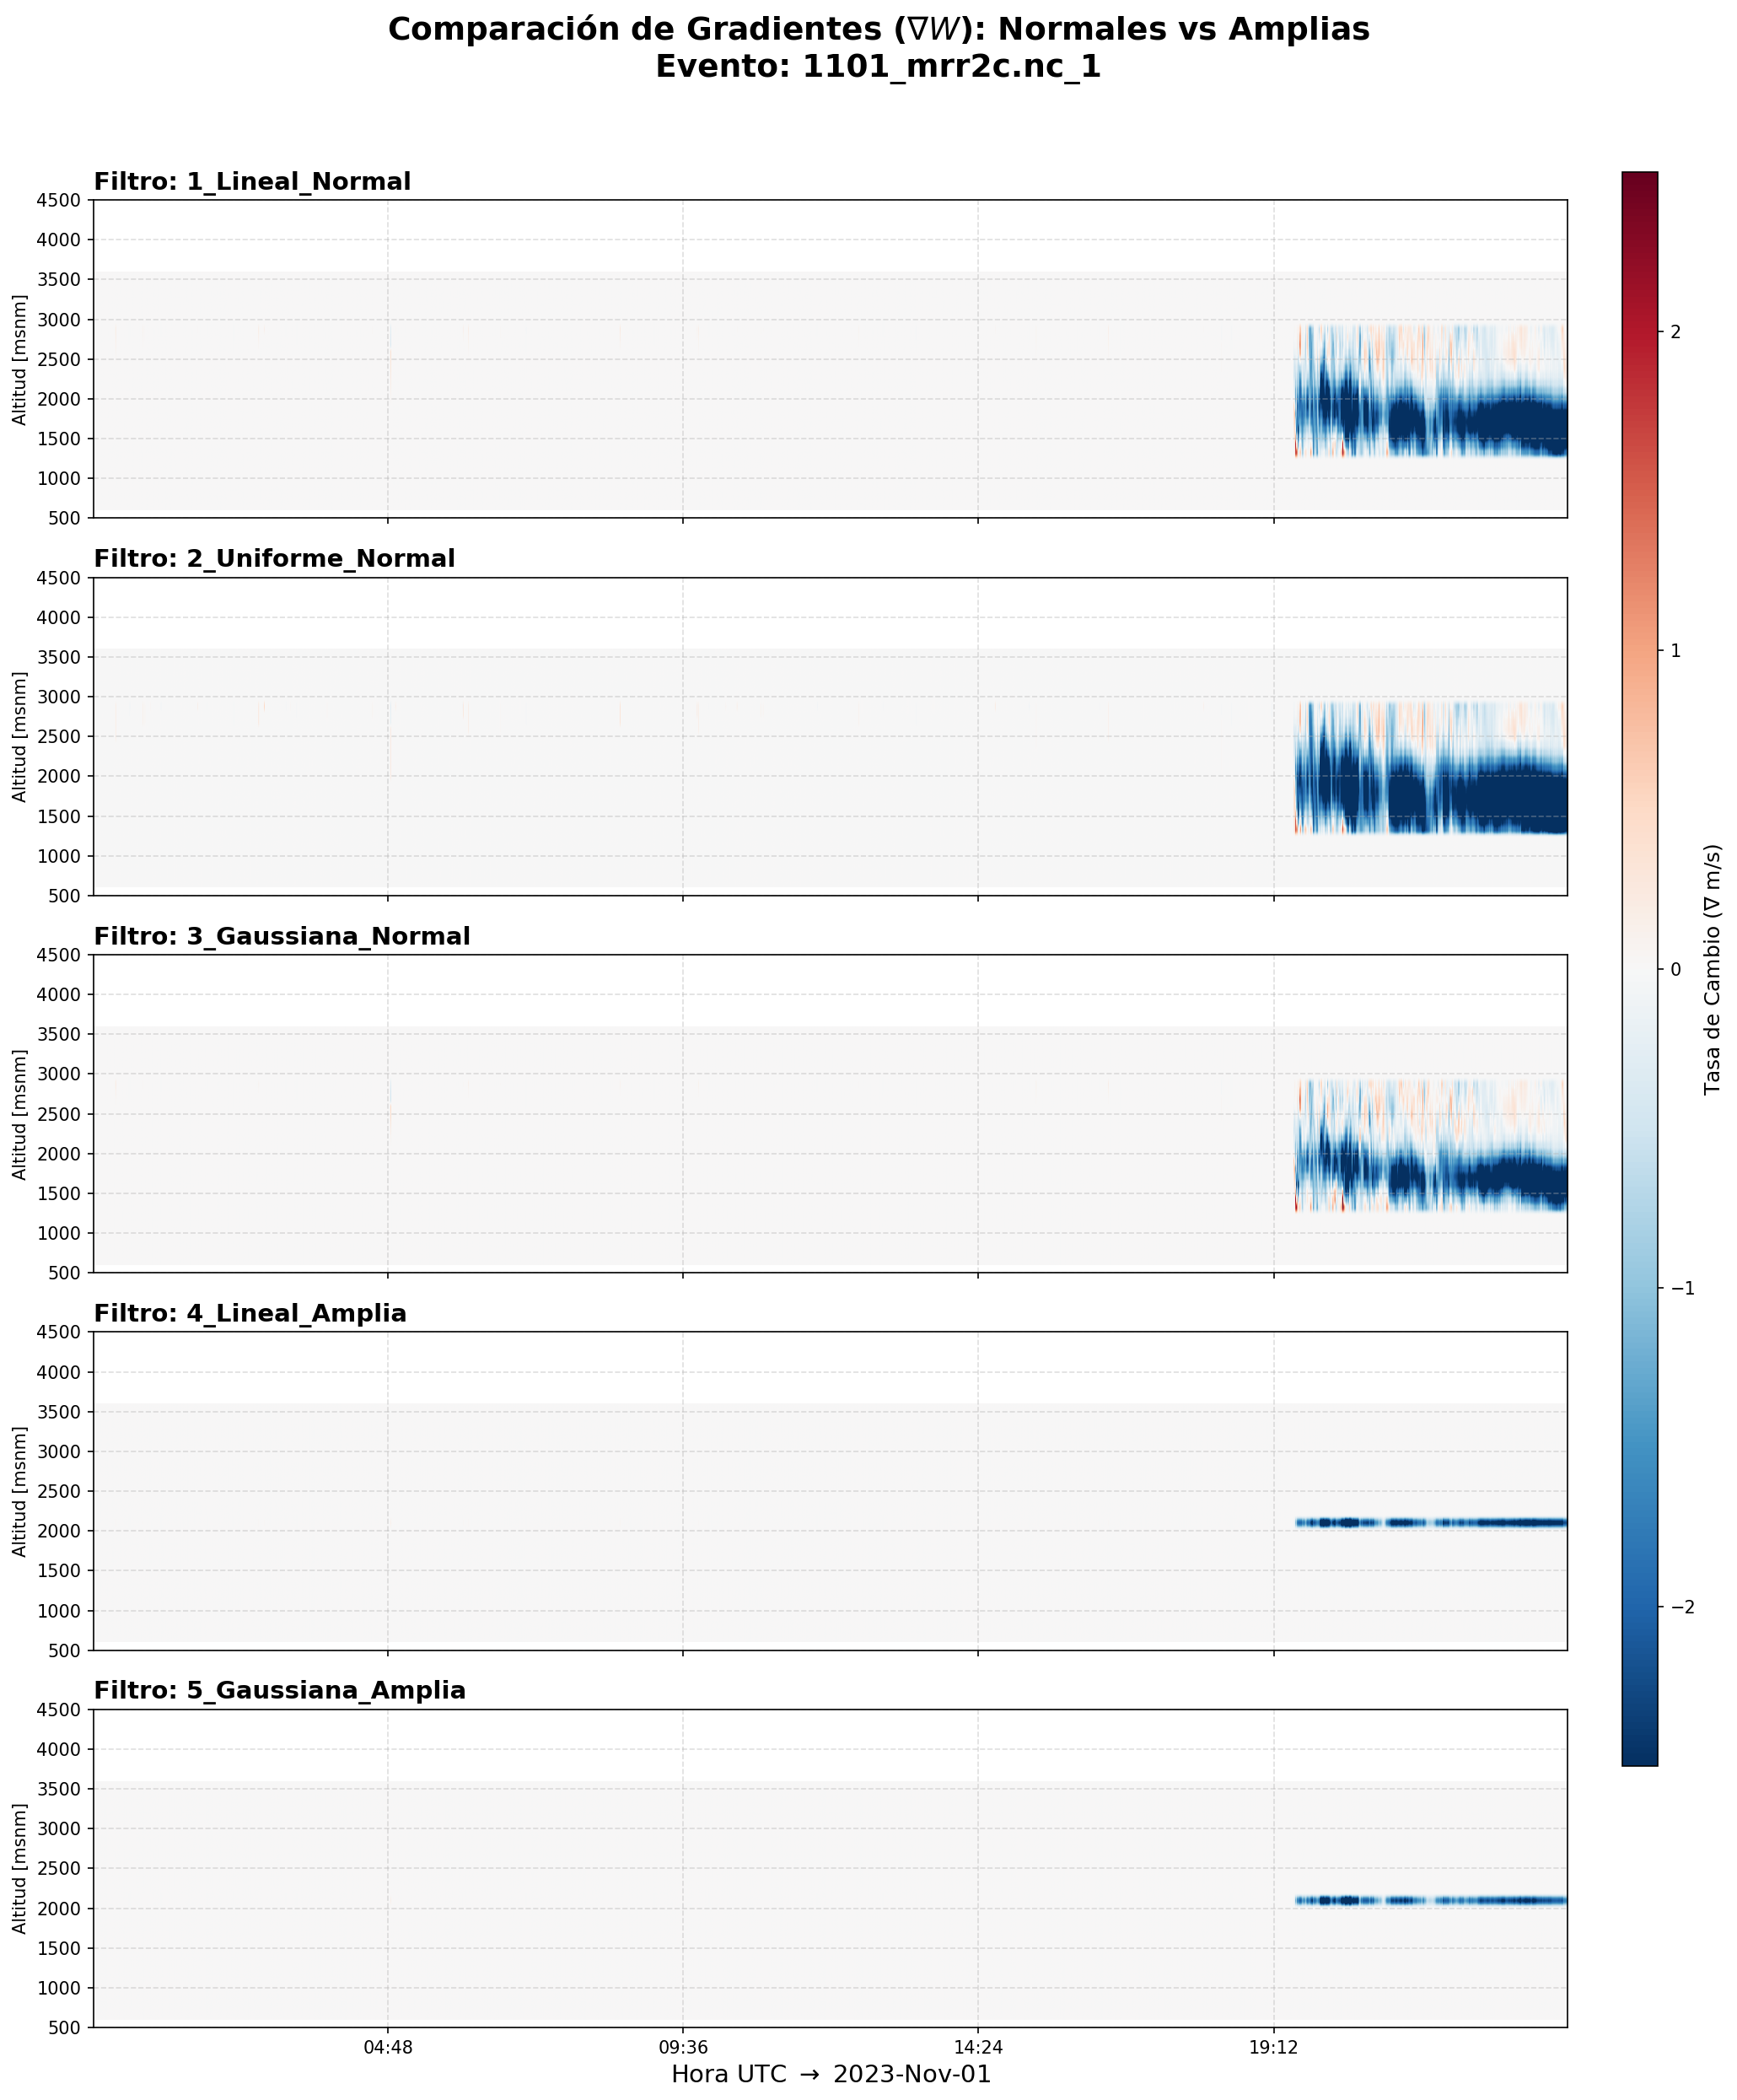
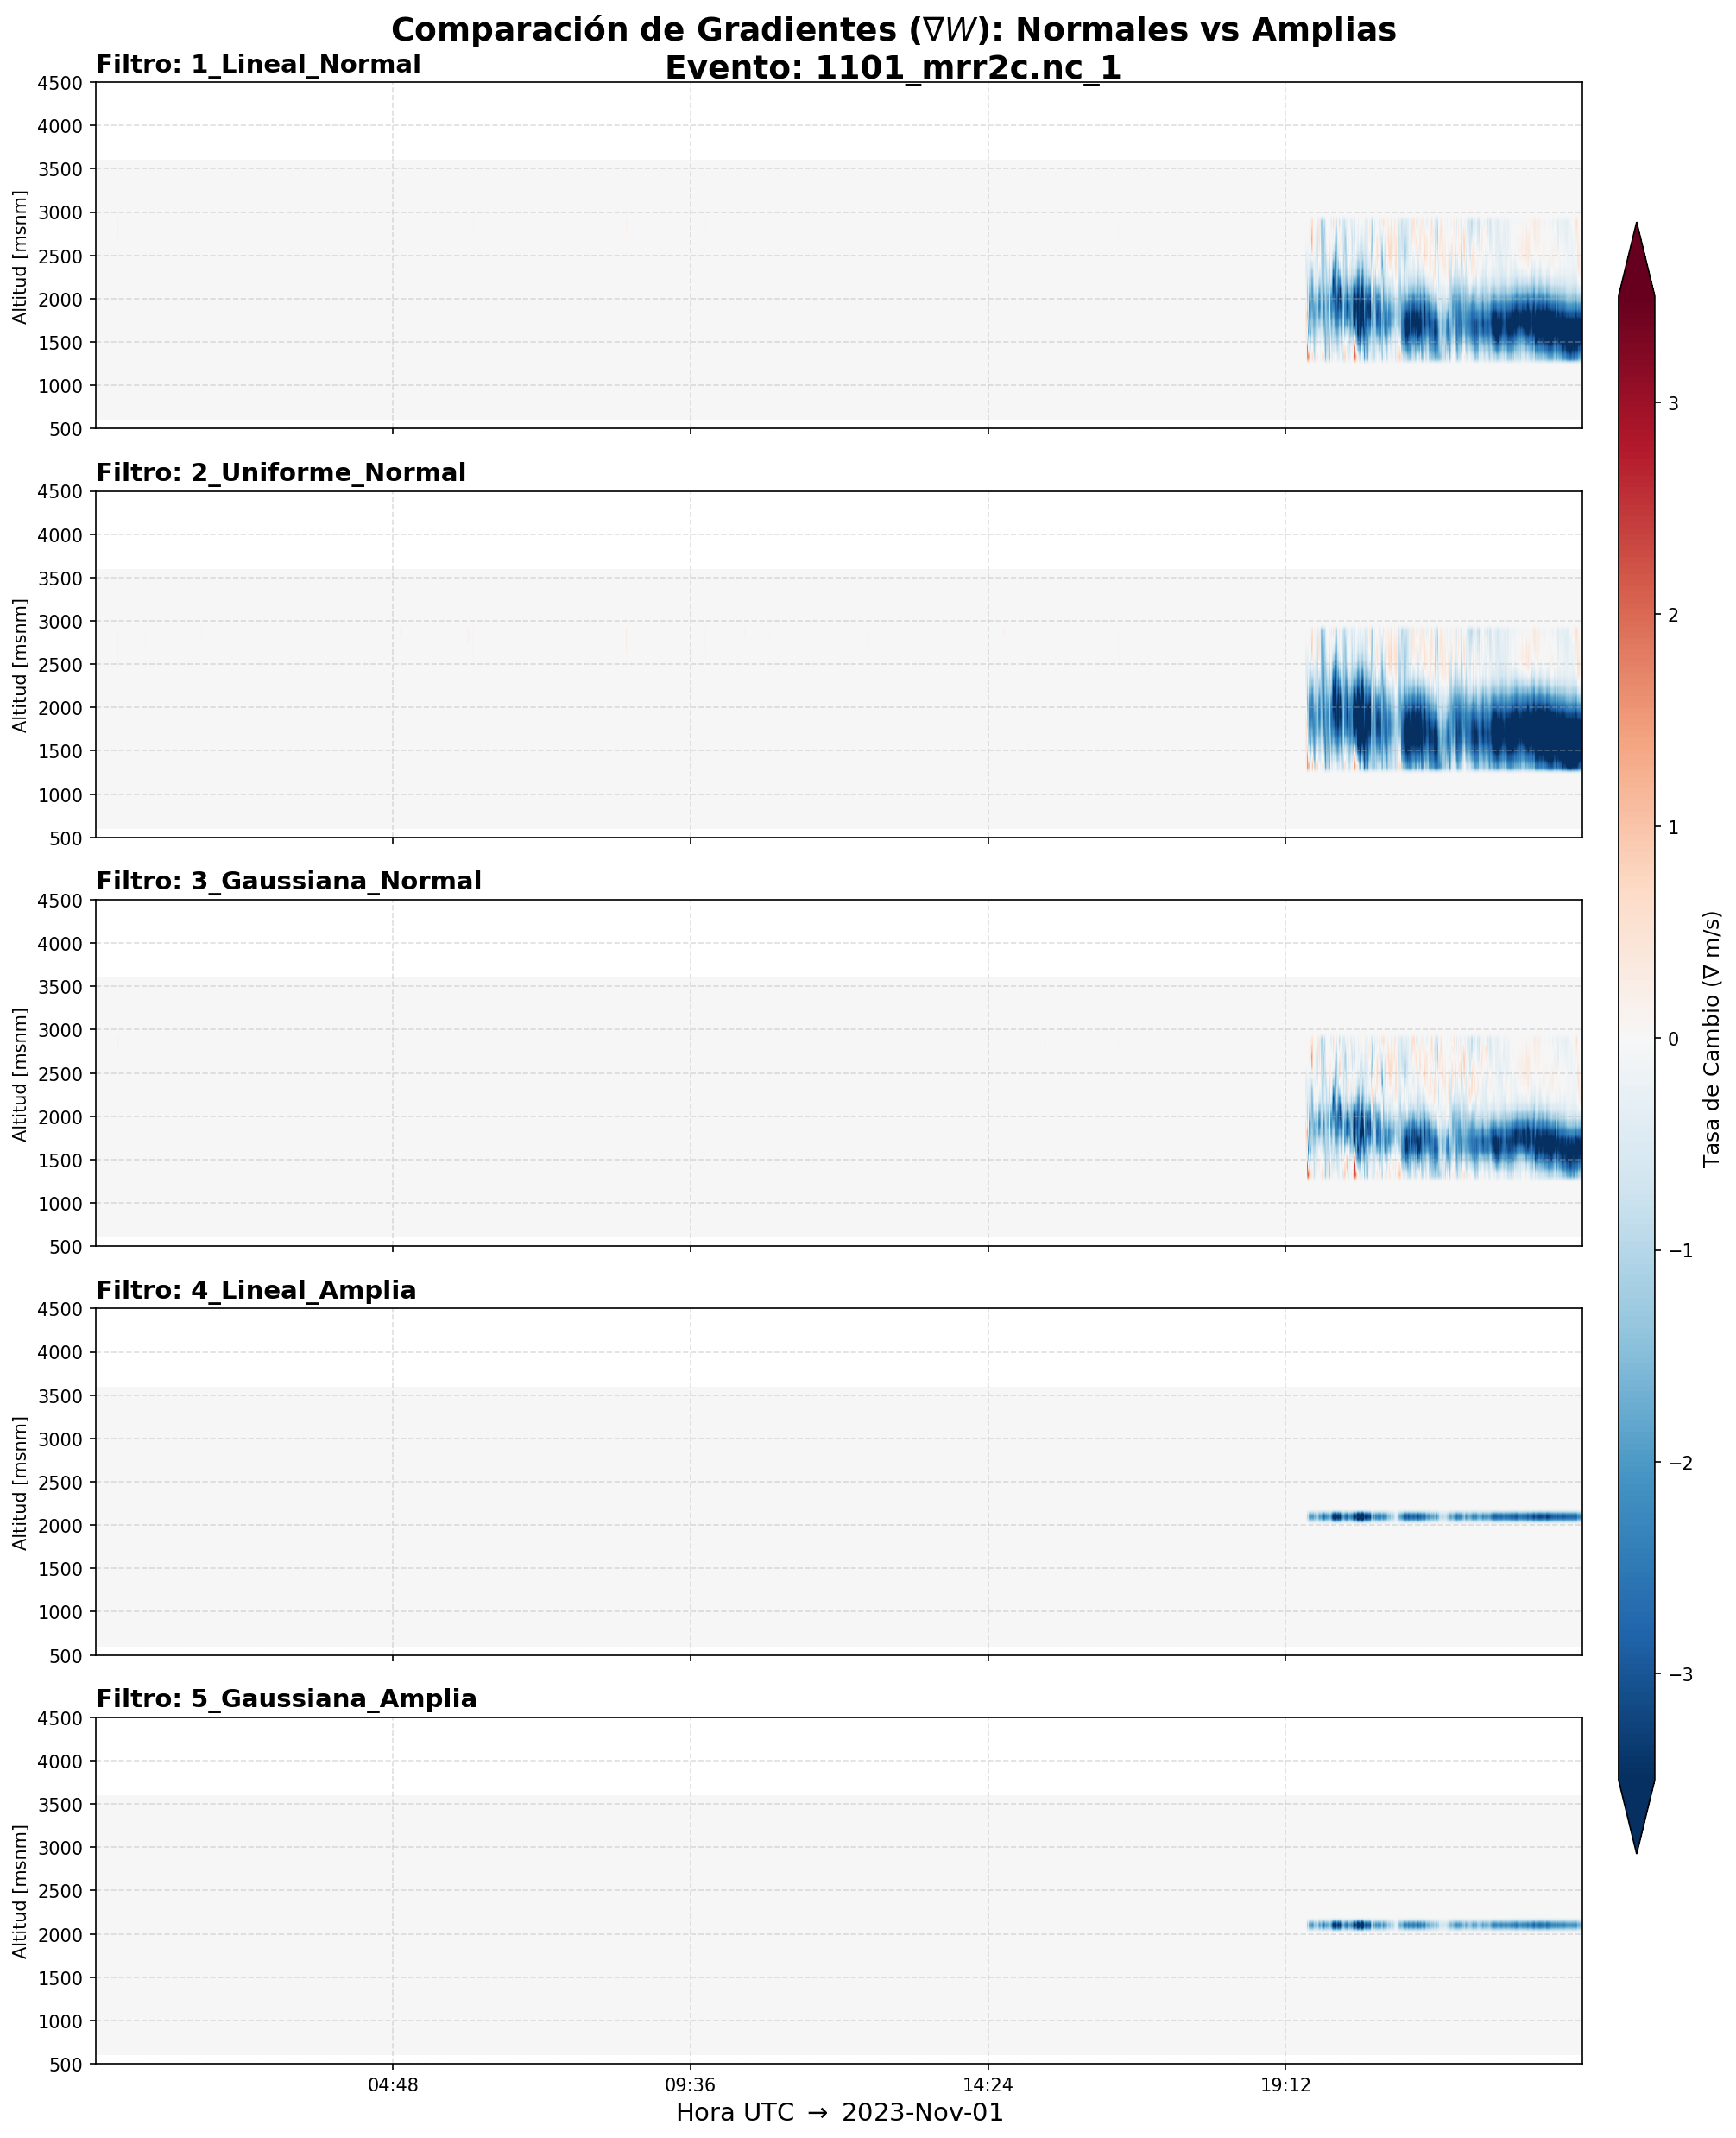
better res & details

diff --git a/src/visualization/plot_gradientes_5_ventanas.py b/src/visualization/plot_gradientes_5_ventanas.py
@@ -16,7 +16,6 @@ from src.data.loader import obtener_archivos_por_año, leer_netcdf
 from src.features.isoterma import calcular_gradiente_avanzado, filtrar_ruido
 
 # === SELECCIÓN DEFINITIVA DE 5 VENTANAS (NORMALES VS AMPLIAS) ===
-# Normales: marco = 7 | Amplias: marco = 15
 CONFIGURACIONES = {
     "1_Lineal_Normal":    {"ventana": "lineal",    "marco": 7,  "sigma": None},
     "2_Uniforme_Normal":  {"ventana": "uniforme",  "marco": 7,  "sigma": None},
@@ -33,11 +32,12 @@ def generar_plot_5_gradientes(ds, resultados_gradientes, ruta_salida, nombre_eve
 
     fig, axes = plt.subplots(nrows=5, figsize=(14, 18), sharex=True)
     fig.suptitle(f"Comparación de Gradientes ($\\nabla W$): Normales vs Amplias\nEvento: {nombre_evento}", 
-                 fontsize=18, fontweight='bold', y=0.92)
+                 fontsize=18, fontweight='bold', y=0.94)
 
     for ax, res in zip(axes, resultados_gradientes):
+        # LÍMITES AMPLIADOS: vmin=-3.5, vmax=3.5 para suavizar la saturación central
         im = ax.imshow(res['gradiente'], origin='lower', aspect='auto', extent=extent, 
-                       cmap='RdBu_r', vmin=-2.5, vmax=2.5)
+                       cmap='RdBu_r', vmin=-3.5, vmax=3.5)
         
         ax.set_title(f"Filtro: {res['nombre']}", fontsize=14, fontweight='bold', loc='left')
         ax.set_ylabel("Altitud [msnm]")
@@ -47,53 +47,64 @@ def generar_plot_5_gradientes(ds, resultados_gradientes, ruta_salida, nombre_eve
     axes[-1].set_xlabel(f"Hora UTC $\\rightarrow$ {tiempos_raw[0].strftime('%Y-%b-%d')}", fontsize=14)
     axes[-1].xaxis.set_major_formatter(dates.DateFormatter('%H:%M'))
 
-    cbar_ax = fig.add_axes([0.92, 0.15, 0.02, 0.7])
-    cbar = fig.colorbar(im, cax=cbar_ax)
+    plt.subplots_adjust(left=0.06, right=0.88, top=0.91, bottom=0.06, hspace=0.18)
+
+    cbar_ax = fig.add_axes([0.90, 0.15, 0.02, 0.7])
+    # extend='both' indica gráficamente si hay valores que escapan de los límites
+    cbar = fig.colorbar(im, cax=cbar_ax, extend='both')
     cbar.set_label("Tasa de Cambio ($\\nabla$ m/s)", fontsize=12)
 
-    plt.tight_layout(rect=[0, 0, 0.9, 0.9])
     plt.savefig(ruta_salida, dpi=150, bbox_inches='tight')
     plt.close(fig)
 
 def ejecutar_comparacion_gradientes():
-    print("=== GENERANDO PANELES COMPARATIVOS DE GRADIENTES ===")
+    print("=== INICIANDO PROCESAMIENTO EN LOTE (10 EVENTOS) ===")
     archivos = obtener_archivos_por_año(2023, DATA_RAW)
     
-    ruta_muestra = None
+    # 1. Escanear y seleccionar 10 archivos que realmente tengan lluvia
+    archivos_validos = []
     for ruta in archivos:
         try:
             with leer_netcdf(ruta) as ds:
                 if np.sum(ds['attenuated_radar_reflectivity'].values > 20.0) > 100:
-                    ruta_muestra = ruta
+                    archivos_validos.append(ruta)
+                if len(archivos_validos) == 10:
                     break
         except Exception: pass
 
-    if not ruta_muestra:
-        print("❌ Error: No se encontró un evento de lluvia válido.")
+    if not archivos_validos:
+        print("❌ Error: No se encontraron eventos de lluvia válidos.")
         return
 
-    nombre = ruta_muestra.stem
+    print(f"-> Se procesarán {len(archivos_validos)} tormentas con contenido válido.")
     out_dir = PROJECT_ROOT / "results" / "gradientes"
     out_dir.mkdir(parents=True, exist_ok=True)
-    out_file = out_dir / f"Comparacion_Gradientes_W_{nombre}.png"
 
-    with leer_netcdf(ruta_muestra) as ds:
-        ze_raw, vf_raw = ds['attenuated_radar_reflectivity'].values, ds['fall_velocity'].values
-        _, vf_c = filtrar_ruido(ze_raw.T if ze_raw.shape[0] == len(ds.time) else ze_raw,
-                                vf_raw.T if vf_raw.shape[0] == len(ds.time) else vf_raw)
+    # 2. Procesar cada archivo individualmente
+    for ruta_muestra in archivos_validos:
+        nombre = ruta_muestra.stem
+        out_file = out_dir / f"Comparacion_Gradientes_W_{nombre}.png"
+        print(f"\n>> Analizando: {nombre}...")
 
-        resultados = []
-        for nombre_config, params in CONFIGURACIONES.items():
-            grad_vf = calcular_gradiente_avanzado(
-                vf_c, 
-                marco=params["marco"], 
-                tipo_ventana=params["ventana"], 
-                sigma=params["sigma"]
-            )
-            resultados.append({"nombre": nombre_config, "gradiente": grad_vf})
+        with leer_netcdf(ruta_muestra) as ds:
+            ze_raw, vf_raw = ds['attenuated_radar_reflectivity'].values, ds['fall_velocity'].values
+            _, vf_c = filtrar_ruido(ze_raw.T if ze_raw.shape[0] == len(ds.time) else ze_raw,
+                                    vf_raw.T if vf_raw.shape[0] == len(ds.time) else vf_raw)
 
-        generar_plot_5_gradientes(ds, resultados, out_file, nombre)
-        print(f"✅ ¡Panel comparativo generado en: {out_file}!")
+            resultados = []
+            for nombre_config, params in CONFIGURACIONES.items():
+                grad_vf = calcular_gradiente_avanzado(
+                    vf_c, 
+                    marco=params["marco"], 
+                    tipo_ventana=params["ventana"], 
+                    sigma=params["sigma"]
+                )
+                resultados.append({"nombre": nombre_config, "gradiente": grad_vf})
+
+            generar_plot_5_gradientes(ds, resultados, out_file, nombre)
+            print(f"   [OK] Lámina comparativa guardada.")
+
+    print("\n✅ ¡Lote completo generado con éxito!")
 
 if __name__ == '__main__':
     ejecutar_comparacion_gradientes()